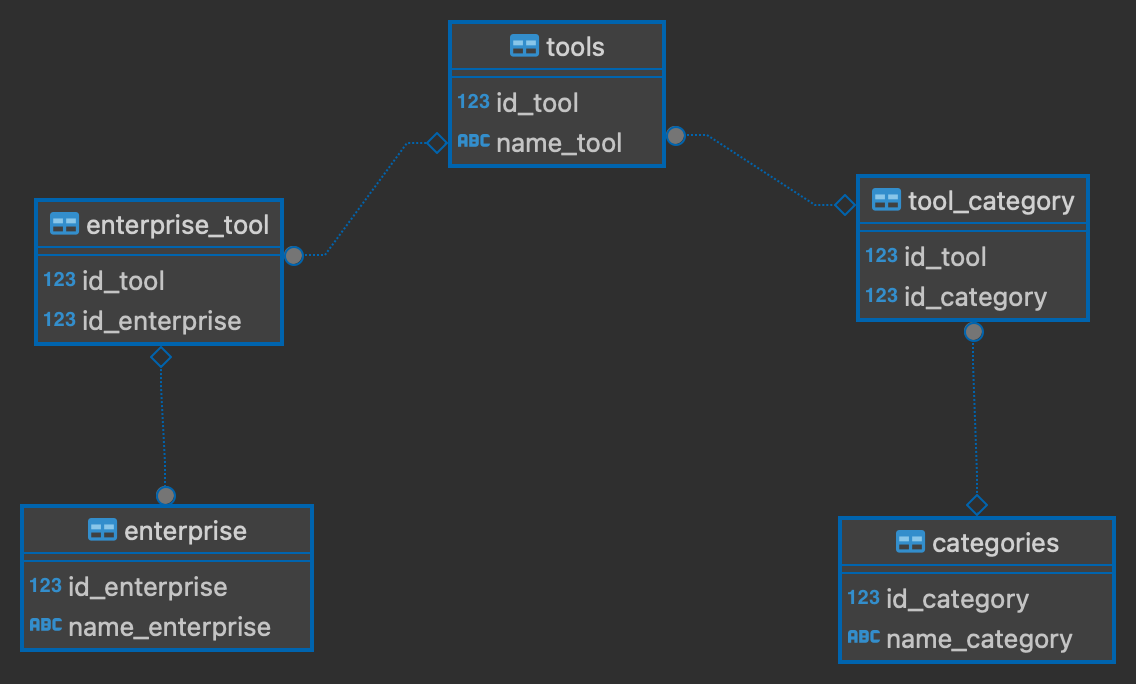
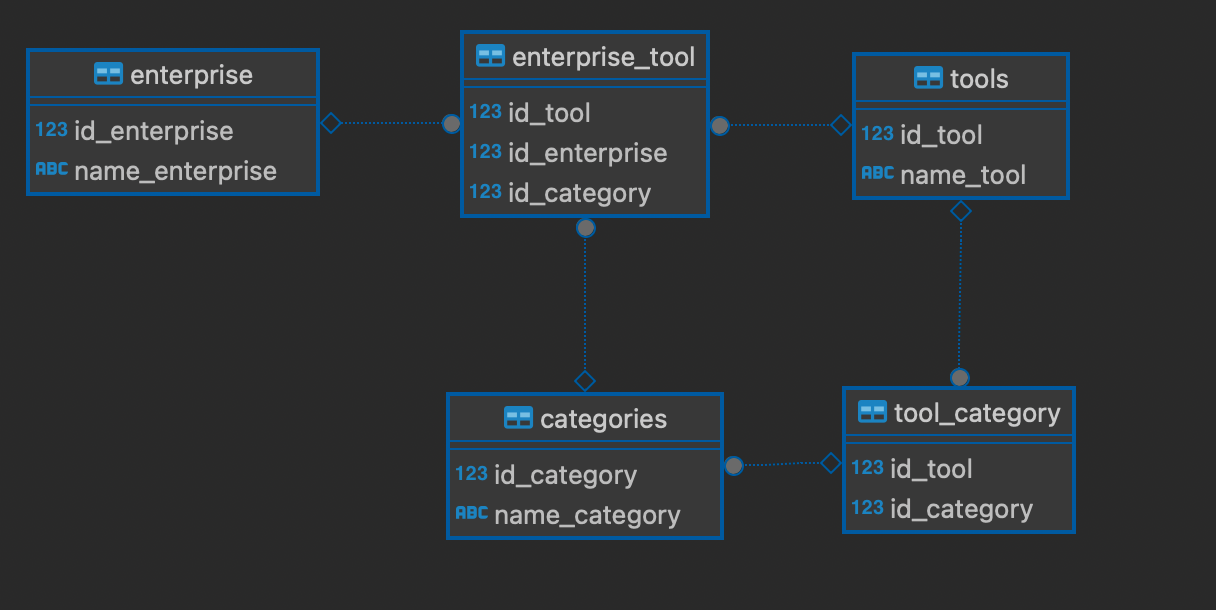
update database

diff --git a/load_data.py b/load_data.py
@@ -43,7 +43,7 @@ def enterprise_tool(data):
       # print(j)
       for k in i['tools'][j]:
         # print(k) # tool
-        enterprise_tools.append([i['name'], k])
+        enterprise_tools.append([i['name'], j, k])
   return enterprise_tools
 
 # add function
@@ -72,7 +72,7 @@ category_tools_rels = category_tools(data)
 #load_enterprise(enterprises=enterprises, cur=var_conn)
 #load_categories(categories=categories, cur=var_conn)
 #load_tools(tools=tools, cur=var_conn)
-#load_enterprise_tool(rels=enterprise_tool_rels, cur=var_conn)
+load_enterprise_tool(rels=enterprise_tool_rels, cur=var_conn)
 #load_category_tool(rels=category_tools_rels, cur=var_conn)
 
 # close connection database

diff --git a/load.py b/load.py
@@ -29,7 +29,7 @@ def load_tools(tools, cur) -> None:
 
 def load_enterprise_tool(rels, cur) -> None:
     for rel in rels:
-        sql = "insert into enterprise_tool values ((select id_tool from tools where name_tool = '{}'),(select id_enterprise from enterprise where name_enterprise = '{}'));".format(str(rel[1]), str(rel[0]))
+        sql = "insert into enterprise_tool values ((select id_tool from tools where name_tool = '{}'),(select id_enterprise from enterprise where name_enterprise = '{}'),(select id_category from categories where name_category = '{}'));".format(str(rel[2]), str(rel[0]), str(rel[1]))
         # print(sql)
         cur.execute(sql)
 
